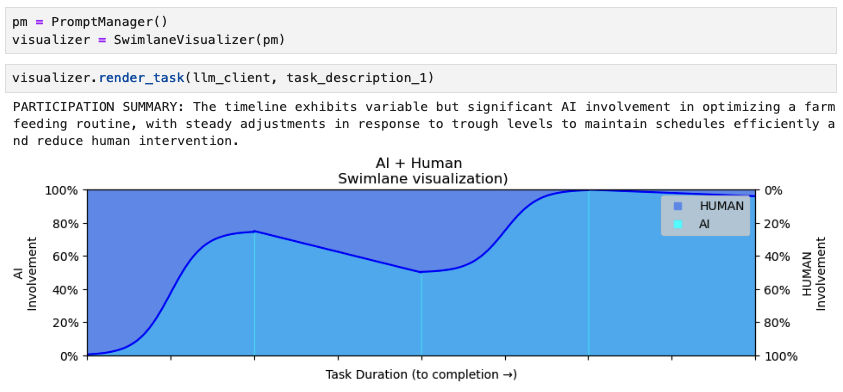
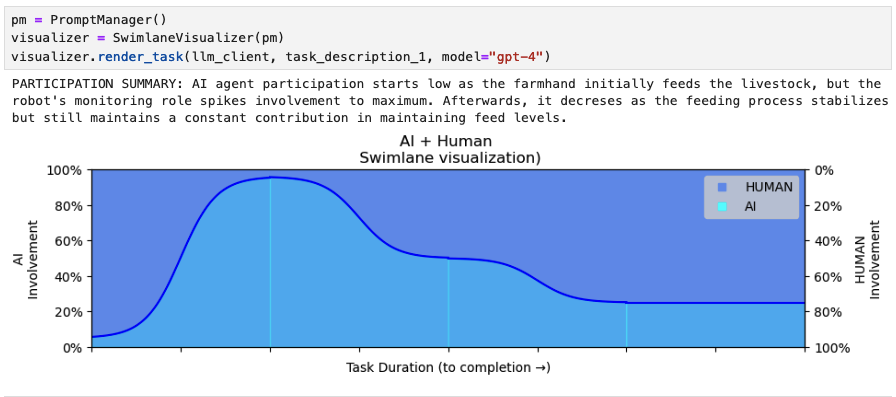
add optional 'model' param in SwimlaneVisualizer.render_task(); update example notebook and png image accordingly

diff --git a/swimlanes/vis/visualizer.py b/swimlanes/vis/visualizer.py
@@ -120,8 +120,8 @@ class SwimlaneVisualizer:
         print("PARTICIPATION SUMMARY: " + summary)
         return self.plot_transitions(timeline_parts)
 
-    def render_task(self, llm_client, task_description):
-        timeline, summary = self.complete_timeline(llm_client, task_description)
+    def render_task(self, llm_client, task_description, model="gpt-4o"):
+        timeline, summary = self.complete_timeline(llm_client, task_description, model=model)
         return self.plot_timeline(timeline, summary)
     
 
